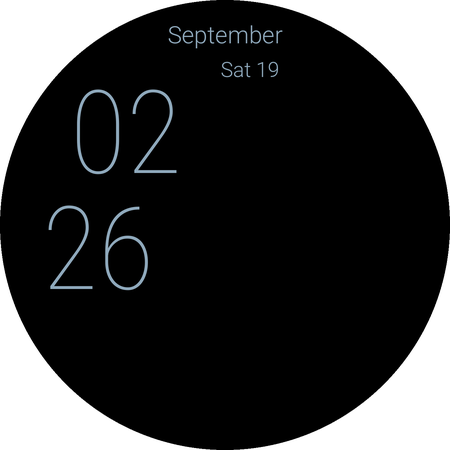
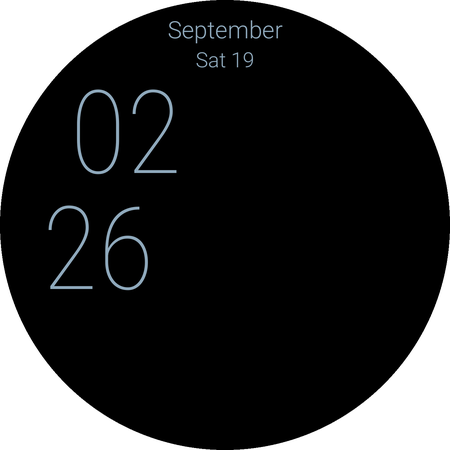
Center date header and balance its vertical spacing

Changed region(s): [[0.3733, 0.0311, 0.6222, 0.1867]]

diff --git a/tools/generate_watchface.py b/tools/generate_watchface.py
@@ -82,9 +82,9 @@ def clock(parent, ambient=False):
         t = box(d, 'TimeText', x, y, width, 130, format=fmt, hourFormat='SYNC_TO_DEVICE', align='CENTER')
         el(t, 'Font', family='sans-serif-condensed', size=116 if ambient else (130 if fmt == 'mm' else 134),
            color=color, weight='THIN' if ambient else 'MEDIUM')
-    text(g, 82, 17, 286, 40, 24, '%s', '[MONTH_F]',
+    text(g, 82, 17, 286, 30, 24, '%s', '[MONTH_F]',
          color=color if ambient else C[3], weight='LIGHT' if ambient else 'BOLD')
-    text(g, 202, 55, 96, 29, 21, '%s %s', '[DAY_OF_WEEK_S]', '[DAY]',
+    text(g, 82, 47, 286, 26, 21, '%s %s', '[DAY_OF_WEEK_S]', '[DAY]',
          color=color if ambient else C[3], weight='LIGHT' if ambient else 'BOLD')
     if not ambient:
         seconds = box(g, 'DigitalClock', 166, 270, 36, 40)

diff --git a/docs/SAMSUNG_FORECAST_TESTING.md b/docs/SAMSUNG_FORECAST_TESTING.md
@@ -6,7 +6,7 @@ This preview reads Samsung Weather's saved forecast through its existing user-gr
 
 Download `weatherbridge-debug.apk` from the **samsung-forecast-preview** artifact in the **Samsung forecast preview** GitHub workflow. The APK contains the weather setup app, a normal selectable forecast complication, and a separately signed/validated WFF face. Do not install the `androidTest` APK or the AAB on your watch.
 
-The current source is **0.2.0-preview.5 / version 12**. It keeps the familiar layout, gives the three 96-unit circles equal spacing, aligns day/date over the upper circle, and makes the active date bold. The 262 × 94 forecast panel is unchanged. Its standard picker now accepts only small-image panels or Empty, excluding generic long-text choices. The left edge has 18 ticks and the right arc spans 40 degrees. The bottom shortcut accepts monochrome icons or Empty; its former text/image-only assignments may need replacing. Circle and edge formats stay unchanged. Validation of this revision is recorded in [the validation log](VALIDATION.md); older runs are not evidence for this update.
+The current source is **0.2.0-preview.5 / version 12**. It keeps the familiar layout, gives the three 96-unit circles equal spacing, centers the two date lines together with a tighter line gap, and makes the active date bold. The 262 × 94 forecast panel is unchanged. Its standard picker now accepts only small-image panels or Empty, excluding generic long-text choices. The left edge has 18 ticks and the right arc spans 40 degrees. The bottom shortcut accepts monochrome icons or Empty; its former text/image-only assignments may need replacing. Circle and edge formats stay unchanged. Validation of this revision is recorded in [the validation log](VALIDATION.md); older runs are not evidence for this update.
 
 For historical comparison, the reviewed version 10 build is [run 35677889561](https://github.com/DylanMc25/ultrawatchfaceedits/actions/runs/35677889561), source `e9fe68d`. Its build/validation and both stock Wear OS 6 editor tests pass. Those results do not validate the new layout or narrowed provider menu.
 

diff --git a/README.md b/README.md
@@ -12,7 +12,7 @@ The current layout is standalone `:app` version **0.1.8 / 9** and Samsung foreca
 
 ## Layout
 
-- Month and day/date remain on two lines above stacked hours/minutes. Active month/date text is bold, 24/21 units and hours/minutes are 134/130 units; seconds retain a separate column.
+- Month and day/date form a centered two-line header above stacked hours/minutes, with a tighter gap between the date lines. Active month/date text is bold, 24/21 units and hours/minutes are 134/130 units; seconds retain a separate column.
 - Three staggered circles on the right: heart rate, steps and sunrise/sunset. Diameters are 96/96/96 units, with main readings up to 46 units and smaller sizes for longer values.
 - Longer edges: an 18-segment battery gauge on the left and a 40-degree arc on the right, with inset icons and angled labels. The bottom shortcut accepts only `MONOCHROMATIC_IMAGE` or Empty to reduce picker choices. Right edge and shortcut start unassigned.
 - One transparent **Bottom rectangle**, 262 × 94 units, for compatible installed apps' image panels (`SMALL_IMAGE`) or Empty in the Wear OS 6 forecast face. The legacy standalone face also accepts `LONG_TEXT`. Wear OS determines which installed sources support those types; there is no app whitelist.
